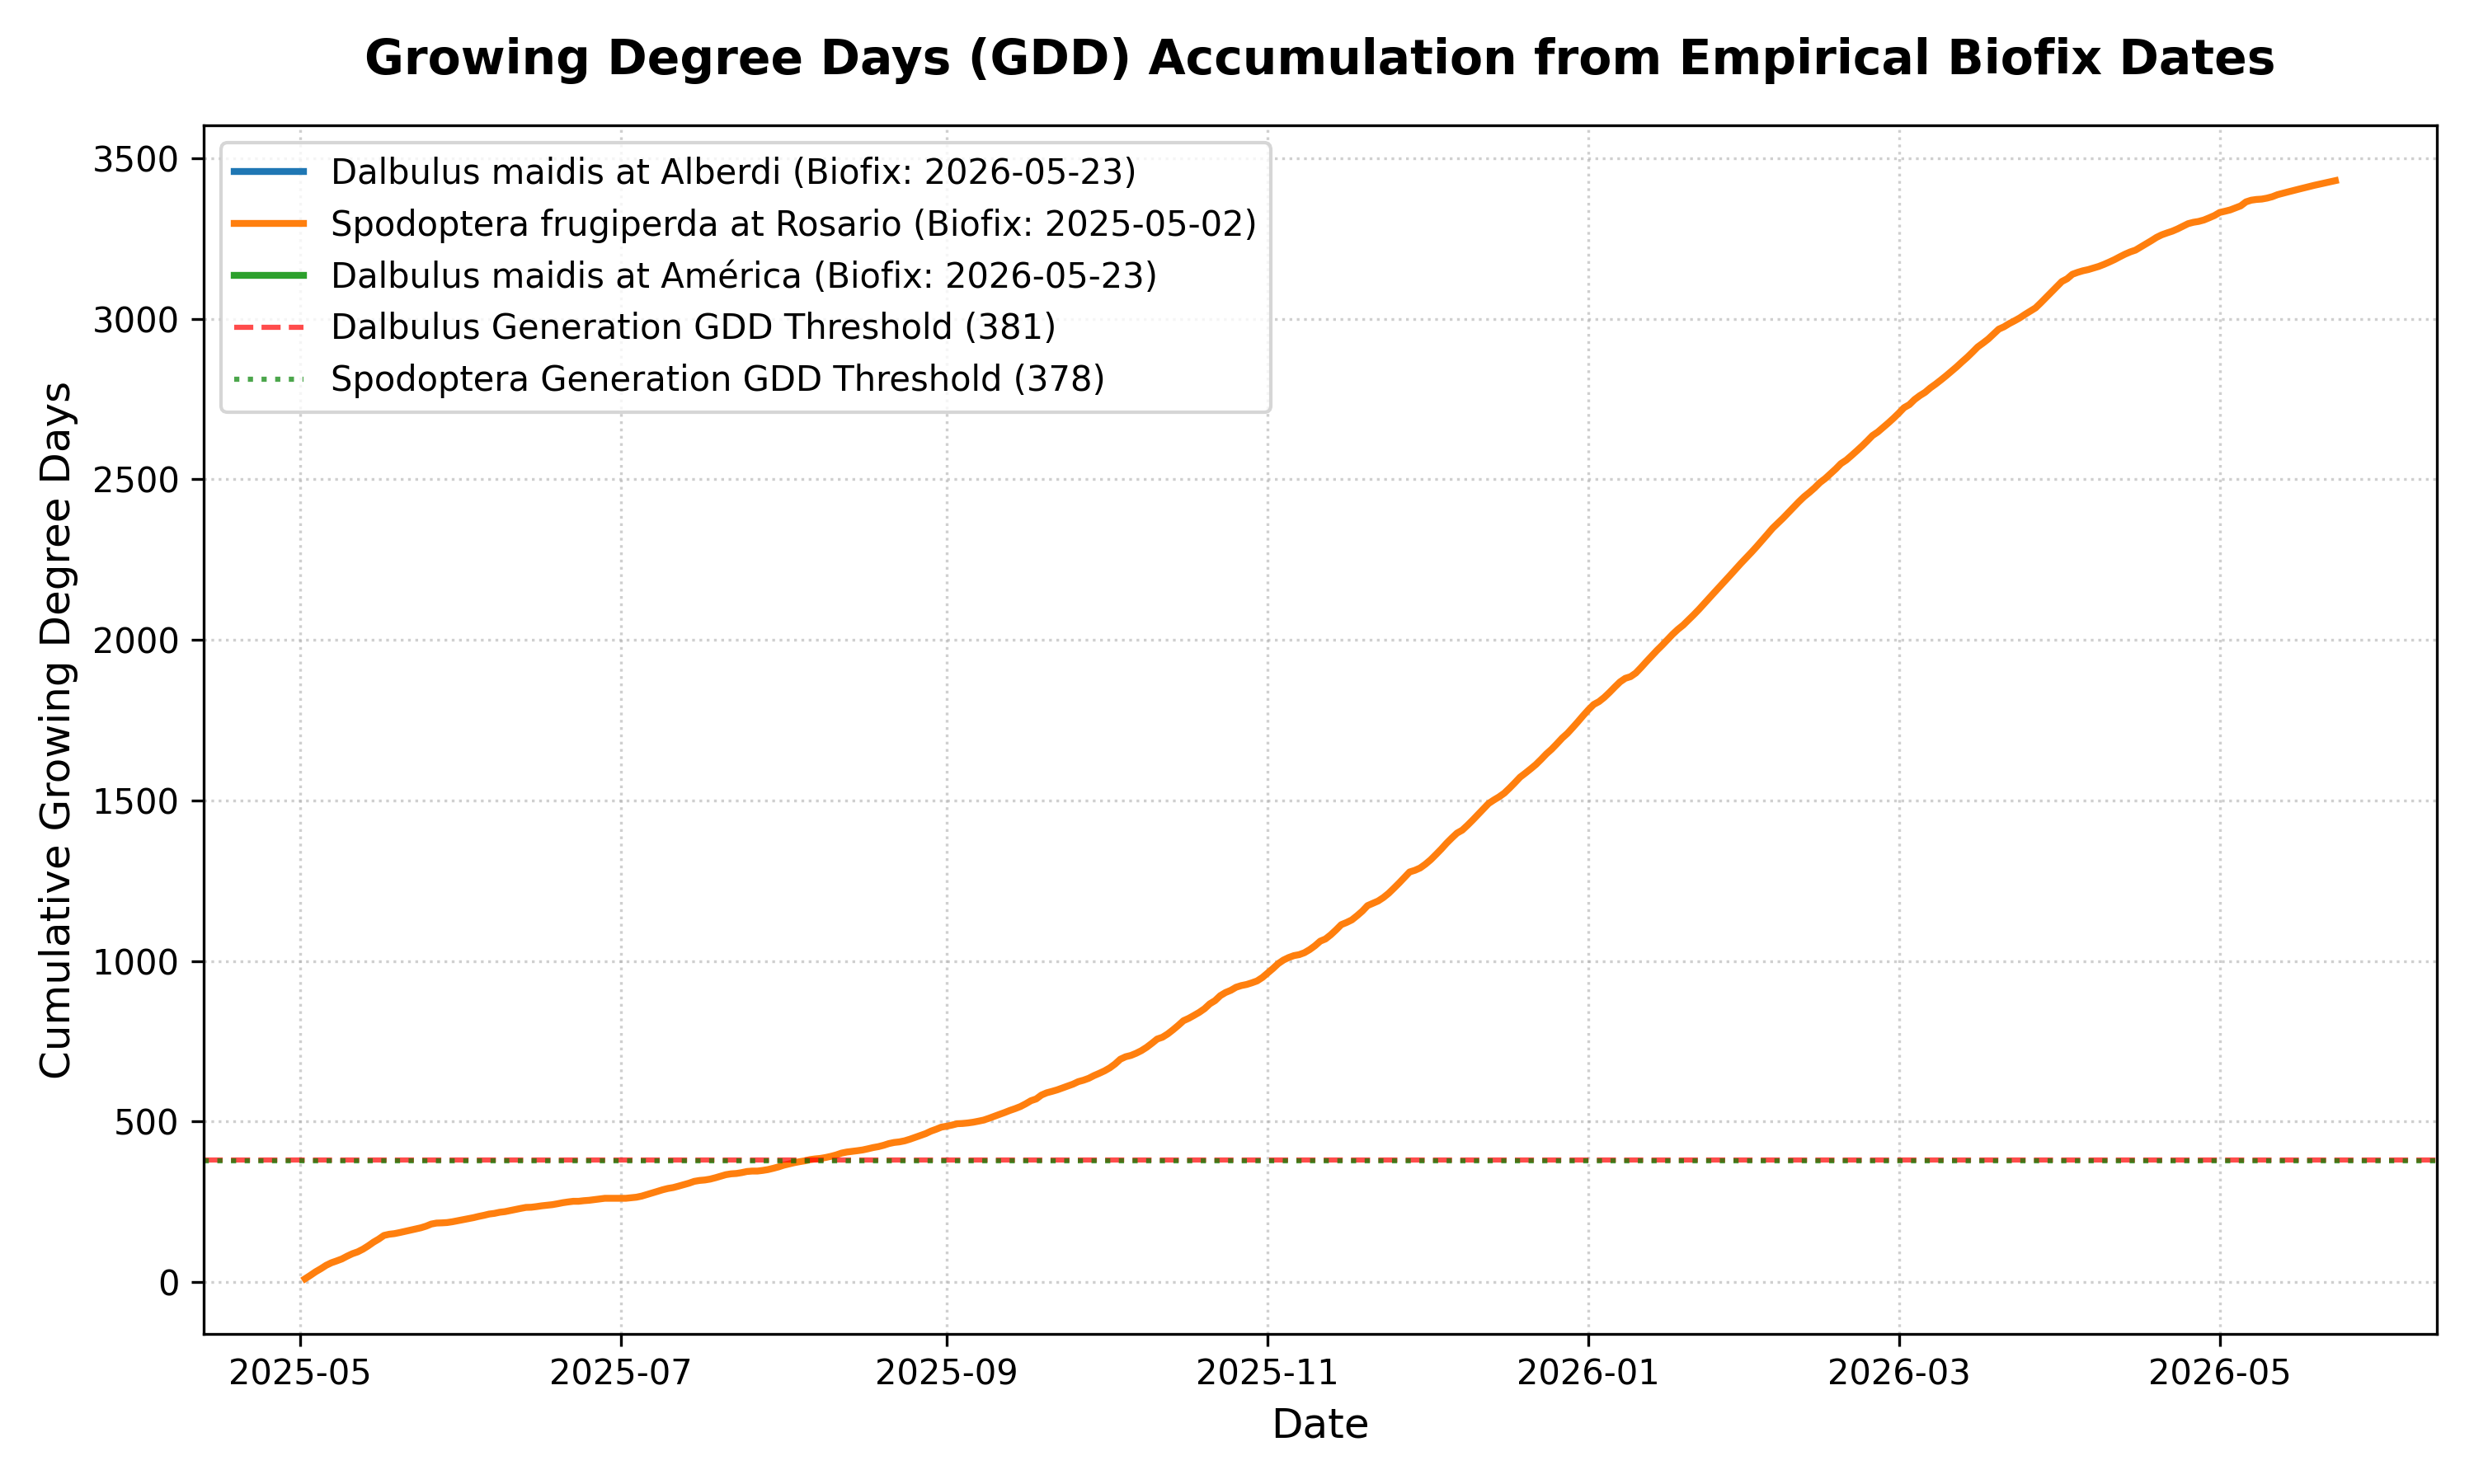
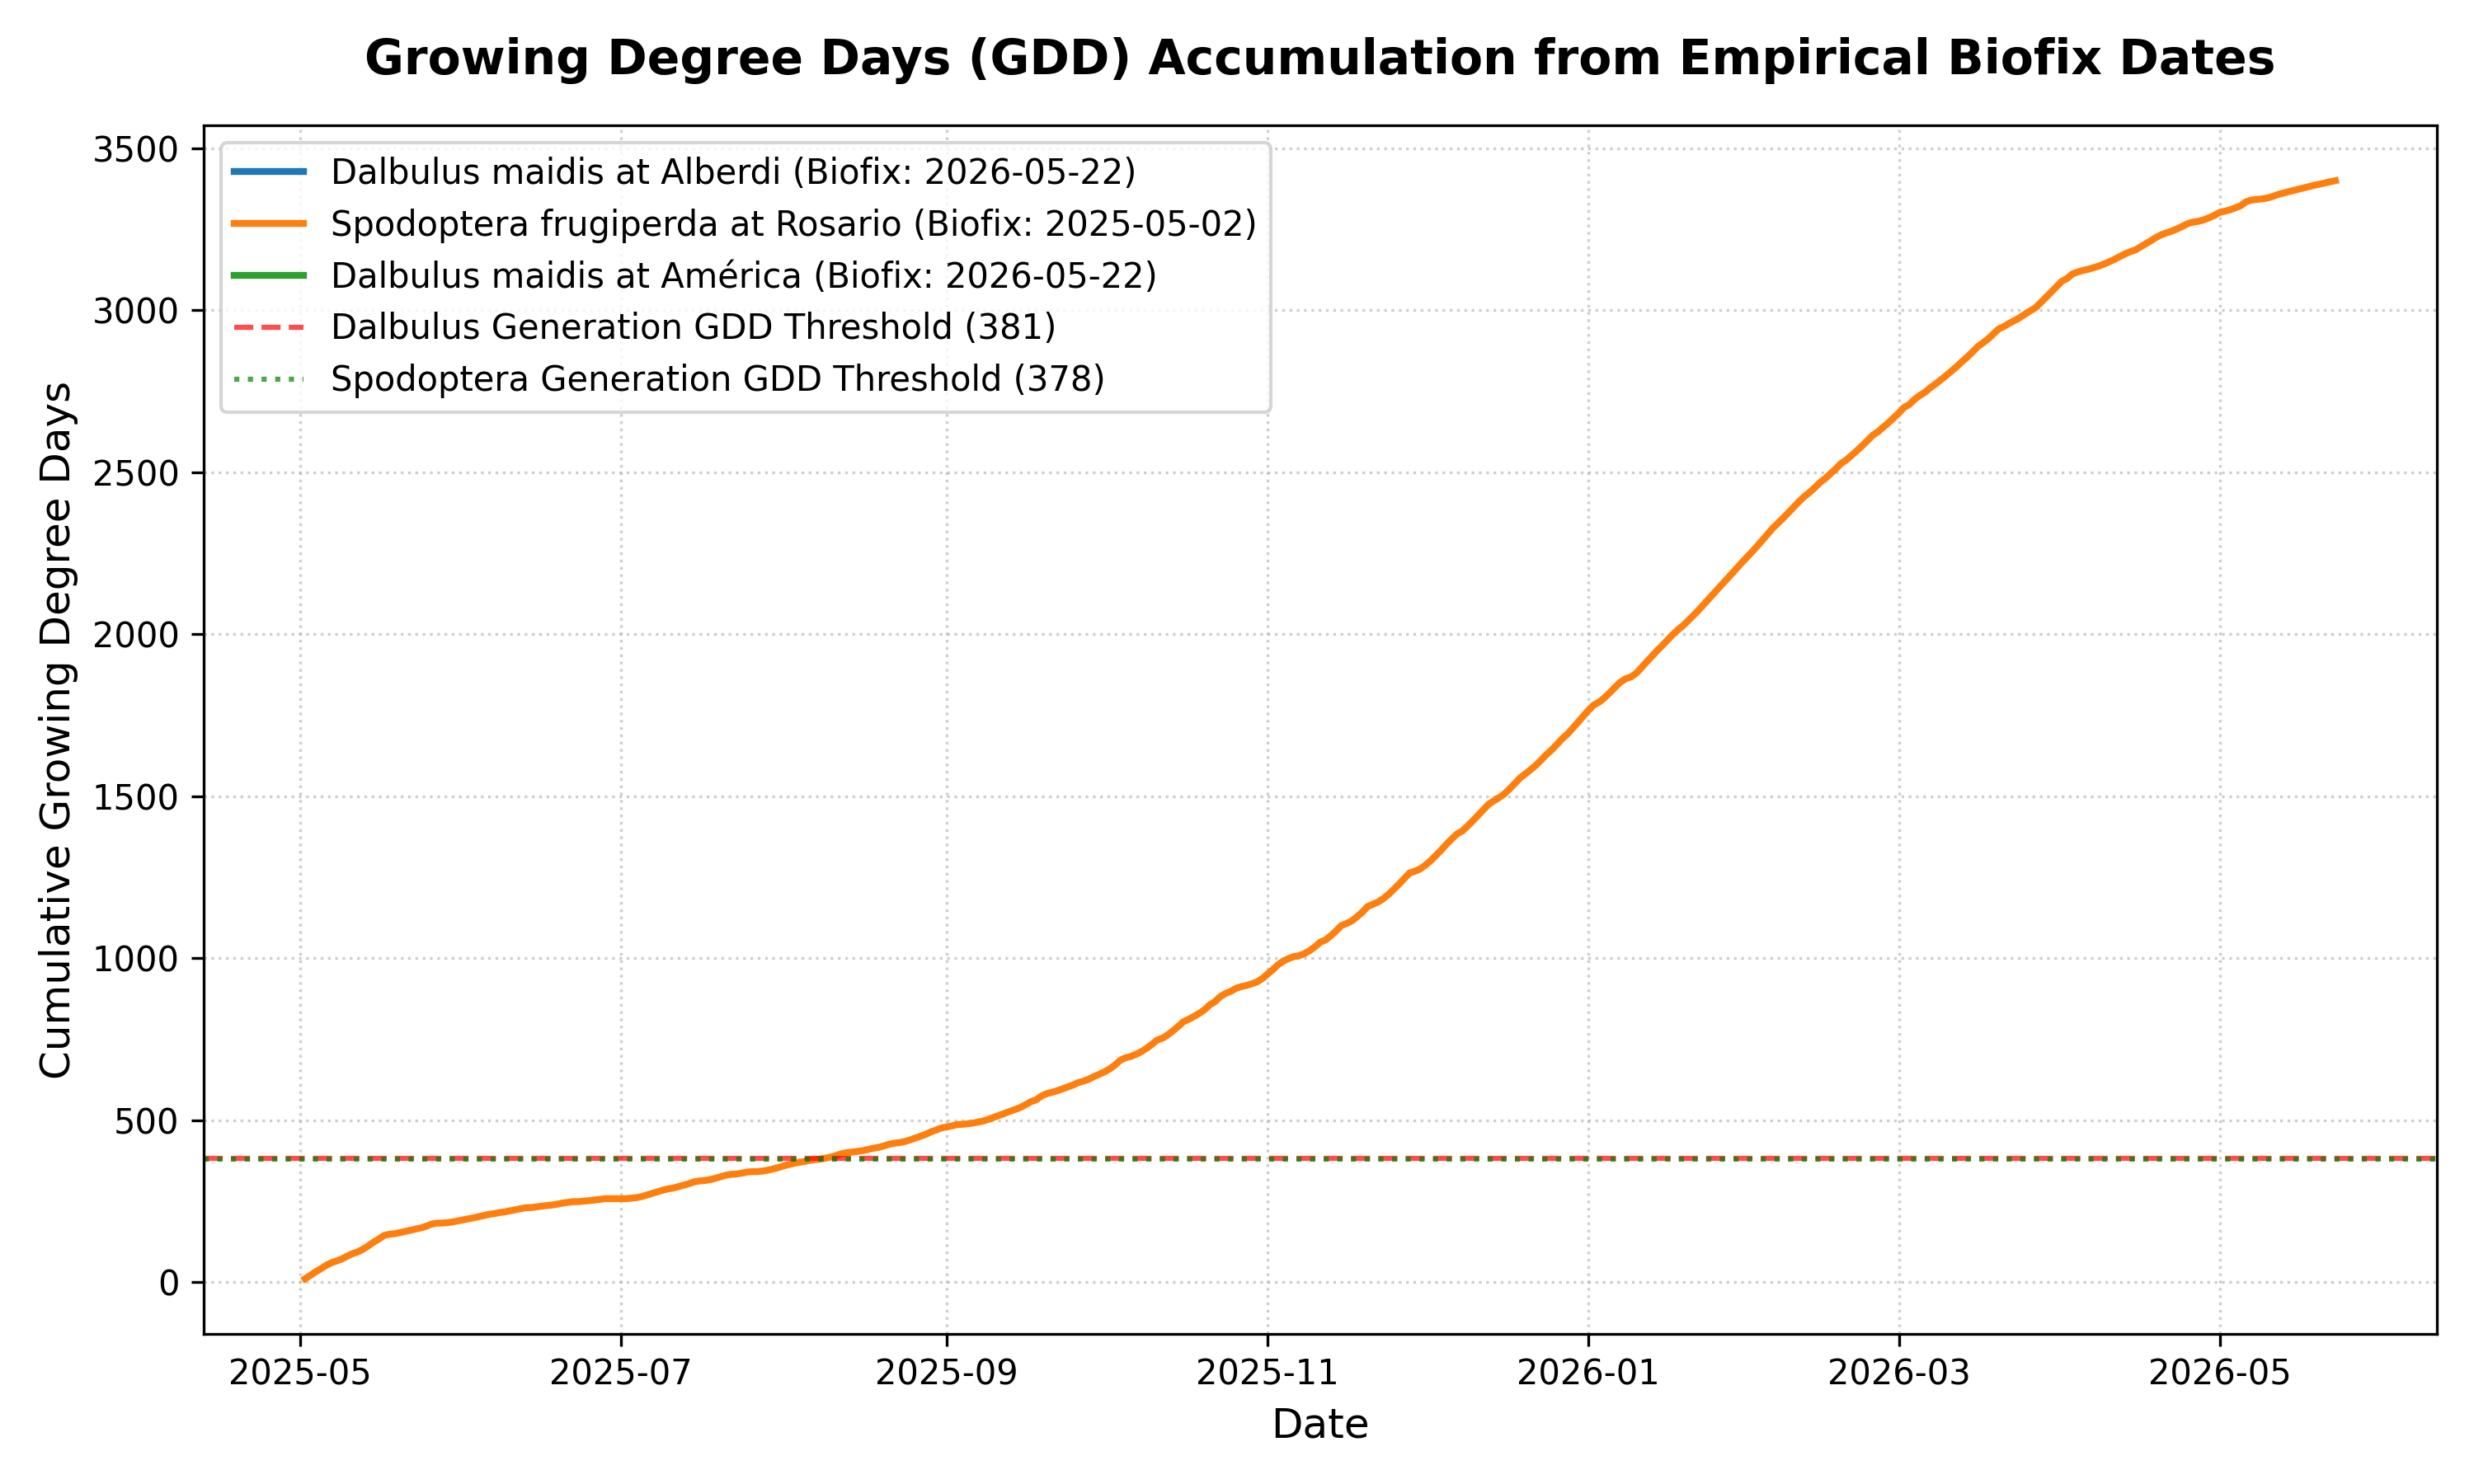
refactor: implement dynamic pest biology loading from YAML and switch database connection to DATABASE_URL environment variable

diff --git a/ml/climate.py b/ml/climate.py
@@ -18,26 +18,44 @@ from extractors.nasa_power import extract_nasa_climate
 logger = logging.getLogger(__name__)
 
 
-# Biological constants for target pests
-PEST_BIOLOGY = {
-    "Dalbulus maidis": {
-        "tbase": 10.0,
-        "tupper": 30.0,  # GDD calculation upper cutoff
-        "egg_gdd": 102.0,
-        "nymph_gdd": 224.0,
-        "preoviposition_gdd": 55.0,
-        "generation_gdd": 381.0,  # Total lifecycle from egg to adult egg-laying
-    },
-    "Spodoptera frugiperda": {
-        "tbase": 10.9,
-        "tupper": 32.0,
-        "egg_gdd": 36.0,
-        "larva_gdd": 194.0,
-        "pupa_gdd": 113.0,
-        "preoviposition_gdd": 35.0,
-        "generation_gdd": 378.0,
-    }
-}
+import yaml
+
+# Load dynamic biological parameters
+def load_pest_biology() -> Dict[str, dict]:
+    yaml_path = os.path.join(os.path.dirname(__file__), "biofix_params.yaml")
+    if not os.path.exists(yaml_path):
+        raise FileNotFoundError(f"biofix_params.yaml not found at {yaml_path}")
+    
+    with open(yaml_path, "r", encoding="utf-8") as f:
+        data = yaml.safe_load(f)
+        
+    biology = {}
+    for key, info in data.items():
+        scientific_name = info.get("scientific_name")
+        thermo = info.get("thermodynamics", {})
+        
+        # Build dictionary compatible with the rest of the ML codebase
+        pest_dict = {
+            "tbase": thermo.get("t_base"),
+            "tupper": thermo.get("t_max"),
+        }
+        
+        # Include dynamic developmental GDD thresholds
+        gdd_keys = [
+            "egg_gdd", "nymph_gdd", "larva_gdd", "pupa_gdd", 
+            "preoviposition_gdd", "generation_gdd"
+        ]
+        for gk in gdd_keys:
+            if gk in thermo:
+                pest_dict[gk] = thermo[gk]
+                
+        if scientific_name:
+            biology[scientific_name] = pest_dict
+            
+    return biology
+
+PEST_BIOLOGY = load_pest_biology()
+
 
 
 class ClimateProvider:

diff --git a/ml/run_ml_pipeline.py b/ml/run_ml_pipeline.py
@@ -12,7 +12,7 @@ This script executes the complete predictive and thermodynamic workflow for Plag
 import os
 import argparse
 import logging
-from datetime import datetime, timedelta
+from datetime import datetime, timedelta, timezone
 import pandas as pd
 import numpy as np
 import matplotlib.pyplot as plt
@@ -22,6 +22,7 @@ from ml.biofix import BiofixExtractor, BiofixCohort
 from ml.climate import ClimateProvider, GDDCalculator, PEST_BIOLOGY
 from ml.predictors import FeatureEngineer, WarningLevel1Model
 from ml.engine import ThermodynamicEngine
+from loaders.db import get_engine
 
 # Configure logging
 logging.basicConfig(
@@ -36,13 +37,19 @@ def run_full_ml_pipeline(test_mode: bool = False):
     logger.info("        STARTING PLAG-OUT ML & THERMODYNAMIC PREDICTIVE PIPELINE       ")
     logger.info("======================================================================")
     
-    # Load dataset
-    pest_csv = "data/exports/pest_monitoring_dataset.csv"
-    if not os.path.exists(pest_csv):
-        raise FileNotFoundError(f"Pest monitoring CSV not found at {pest_csv}. Please run export_datasets.py first.")
-        
-    pest_df = pd.read_csv(pest_csv)
-    logger.info(f"Loaded {len(pest_df)} historical pest occurrence records from CSV.")
+    # Connect directly to the database and retrieve occurrences
+    try:
+        db_engine = get_engine()
+        query = (
+            "SELECT id, occurrence_date, pest_type, severity_level, institution, "
+            "province, locality, adults_count, infection_percent, ST_AsText(geom) as geom_wkt "
+            "FROM pest_monitoring"
+        )
+        pest_df = pd.read_sql_query(query, con=db_engine)
+        logger.info(f"Loaded {len(pest_df)} historical pest occurrence records directly from database.")
+    except Exception as e:
+        logger.error(f"Failed to fetch data directly from PostgreSQL: {e}")
+        raise
     
     # Initialize Climate Provider and GDD Calculator
     # In test_mode or offline, we use synthetic climate telemetry. Otherwise, we fetch NASA POWER.
@@ -136,9 +143,26 @@ def run_full_ml_pipeline(test_mode: bool = False):
             })
             
     alerts_df = pd.DataFrame(active_alerts)
+    
+    # Ensure exports directory exists and write CSV for backup
     alerts_csv = "data/exports/active_pest_alerts.csv"
+    os.makedirs(os.path.dirname(alerts_csv), exist_ok=True)
     alerts_df.to_csv(alerts_csv, index=False)
     logger.info(f"Successfully generated active thermodynamic alerts and exported to {alerts_csv}")
+    
+    # Persist the active alerts back to PostgreSQL database for event sourcing
+    if not alerts_df.empty:
+        try:
+            alerts_df_to_save = alerts_df.copy()
+            alerts_df_to_save["generated_at"] = datetime.now(timezone.utc)
+            alerts_df_to_save["evaluation_date"] = evaluation_date
+            
+            alerts_df_to_save.to_sql("pest_alerts", con=db_engine, if_exists="append", index=False)
+            logger.info("Successfully persisted active thermodynamic alerts to 'pest_alerts' table in PostgreSQL.")
+        except Exception as e:
+            logger.error(f"Failed to persist active alerts to PostgreSQL: {e}")
+    else:
+        logger.warning("No active thermodynamic alerts generated to persist to PostgreSQL.")
     
     # --------------------------------------------------------------------------
     # REPORTING & VISUALIZATION (WOW FACTOR)
@@ -177,8 +201,11 @@ def run_full_ml_pipeline(test_mode: bool = False):
         
         plt.plot(weather_df['date'], weather_df['cumulative_gdd'], label=f"{cohort.species} at {cohort.locality} (Biofix: {cohort.biofix_date.strftime('%Y-%m-%d')})", linewidth=2)
         
-    plt.axhline(y=381.0, color='r', linestyle='--', alpha=0.7, label="Dalbulus Generation GDD Threshold (381)")
-    plt.axhline(y=378.0, color='g', linestyle=':', alpha=0.7, label="Spodoptera Generation GDD Threshold (378)")
+    dm_gdd = PEST_BIOLOGY.get("Dalbulus maidis", {}).get("generation_gdd", 381.0)
+    sf_gdd = PEST_BIOLOGY.get("Spodoptera frugiperda", {}).get("generation_gdd", 378.0)
+    
+    plt.axhline(y=dm_gdd, color='r', linestyle='--', alpha=0.7, label=f"Dalbulus Generation GDD Threshold ({int(dm_gdd)})")
+    plt.axhline(y=sf_gdd, color='g', linestyle=':', alpha=0.7, label=f"Spodoptera Generation GDD Threshold ({int(sf_gdd)})")
     
     plt.title("Growing Degree Days (GDD) Accumulation from Empirical Biofix Dates", fontsize=14, fontweight='bold', pad=15)
     plt.xlabel("Date", fontsize=12)

diff --git a/loaders/db.py b/loaders/db.py
@@ -12,13 +12,13 @@ from sqlalchemy.orm import sessionmaker, Session
 
 logger = logging.getLogger(__name__)
 
-# Default connection URL. Can be overridden with PLAGOUT_DB_URL env var.
+# Default connection URL. Can be overridden with DATABASE_URL env var.
 DEFAULT_DB_URL = "postgresql://localhost/plagout_db"
-DB_URL = os.environ.get("PLAGOUT_DB_URL")
+DB_URL = os.environ.get("DATABASE_URL") or os.environ.get("PLAGOUT_DB_URL")
 
 if not DB_URL:
     logger.warning(
-        "PLAGOUT_DB_URL environment variable is not set! "
+        "DATABASE_URL environment variable is not set! "
         f"Falling back to default local URL: {DEFAULT_DB_URL}"
     )
     DB_URL = DEFAULT_DB_URL